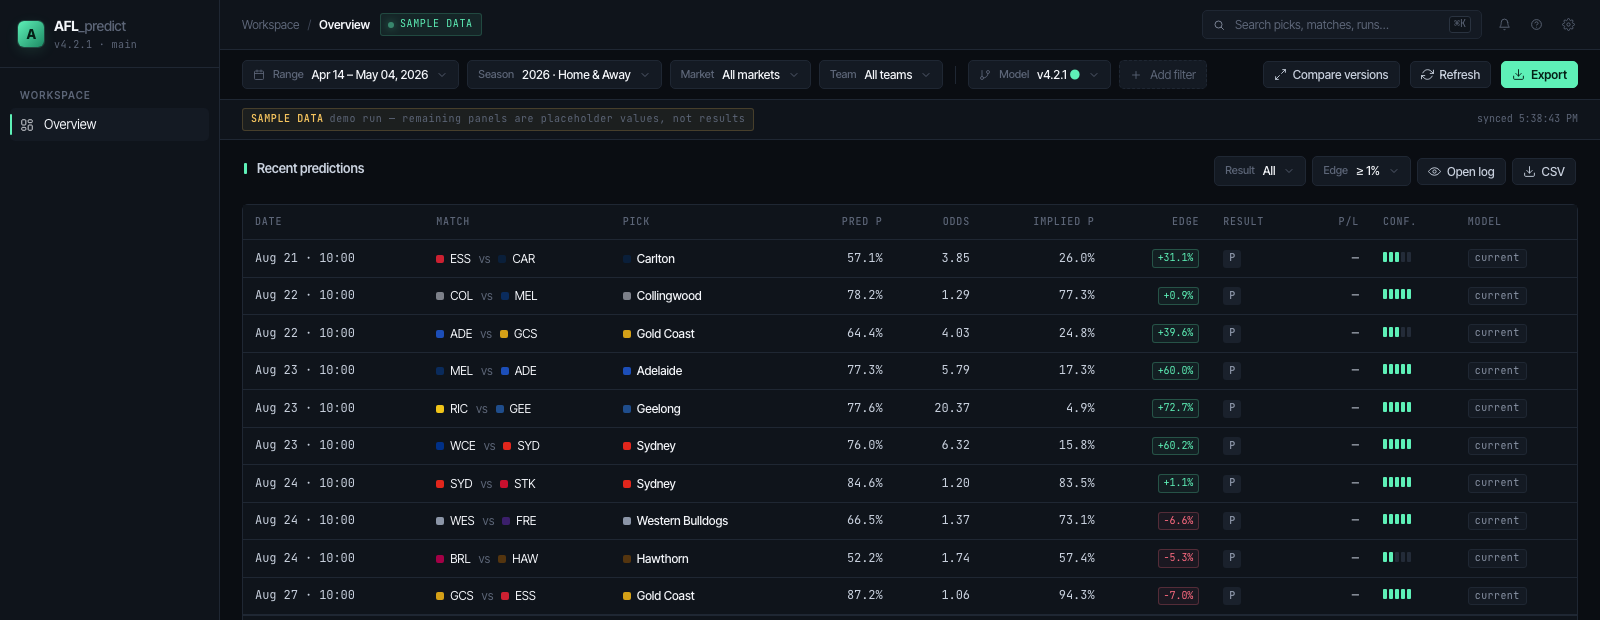
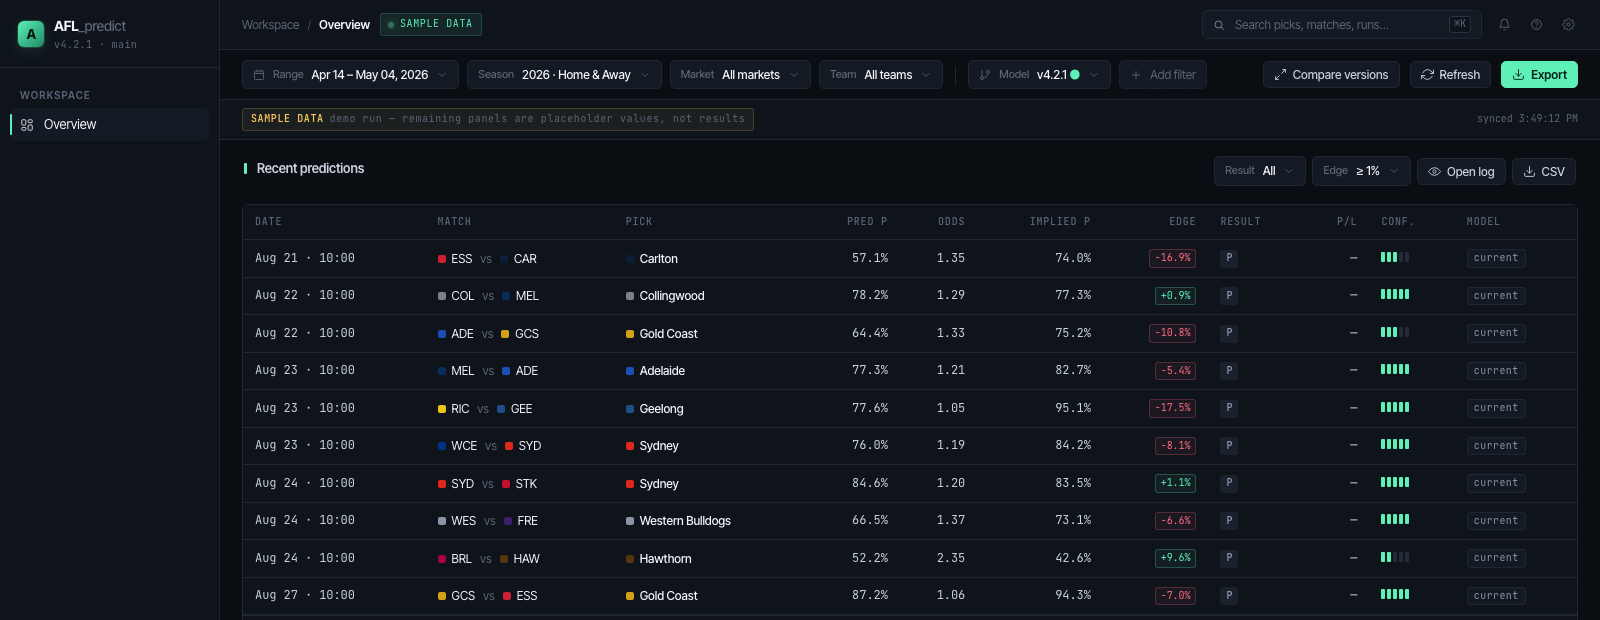
chore: regenerate screenshots after the edge fix
The committed README hero image was captured before the side-alignment fix, so
it advertised the fabricated edges to anyone opening the repository: Essendon v
Carlton at +31.1%, Richmond v Geelong at +72.7%, a wall of large positive edges
that the system does not produce.

Recaptured from the corrected dashboard. The same rows now read -16.9% and
-17.5%, and most edges are negative — consistent with the documented finding
that the models do not beat the market, where the old image quietly contradicted
it. Every row in the new capture was checked against
examples/sample_predictions.json.

Same capture method and crops as before: headless Chrome against `python
serve.py`, hero cropped to the status banner plus the predictions table, with
the design-mock pagination footer excluded. docs/assets/README.md records the
new capture date and still lists panel by panel which parts of the dashboard are
data and which are placeholder.

examples/sample_*.json regenerated by the same demo run; the only content change
is the timestamp.

diff --git a/docs/assets/README.md b/docs/assets/README.md
@@ -2,7 +2,7 @@
 
 ## Screenshots
 
-Both images were captured on 2026-08-19 from the static dashboard
+Both images were captured on 2026-08-21 from the static dashboard
 (`static/quant-dashboard/`) served by `python serve.py`, after running
 `make demo`. Capture command:
 
@@ -16,7 +16,7 @@ python serve.py --port 8123 &
 
 | File | Contents |
 |---|---|
-| `prediction-view.png` | Status banner plus the Recent predictions table. **Every value shown is real** — each row comes from the `predictions.json` the demo wrote. |
+| `prediction-view.png` | Status banner plus the Recent predictions table. **Every row is real** — each comes from the `predictions.json` the demo wrote, with each pick's probability priced against its own side of the market. |
 | `dashboard.png` | The full overview viewport, for layout context. **Read the caveat below before reusing it.** |
 
 ## Caveat: the dashboard mixes real and placeholder values
